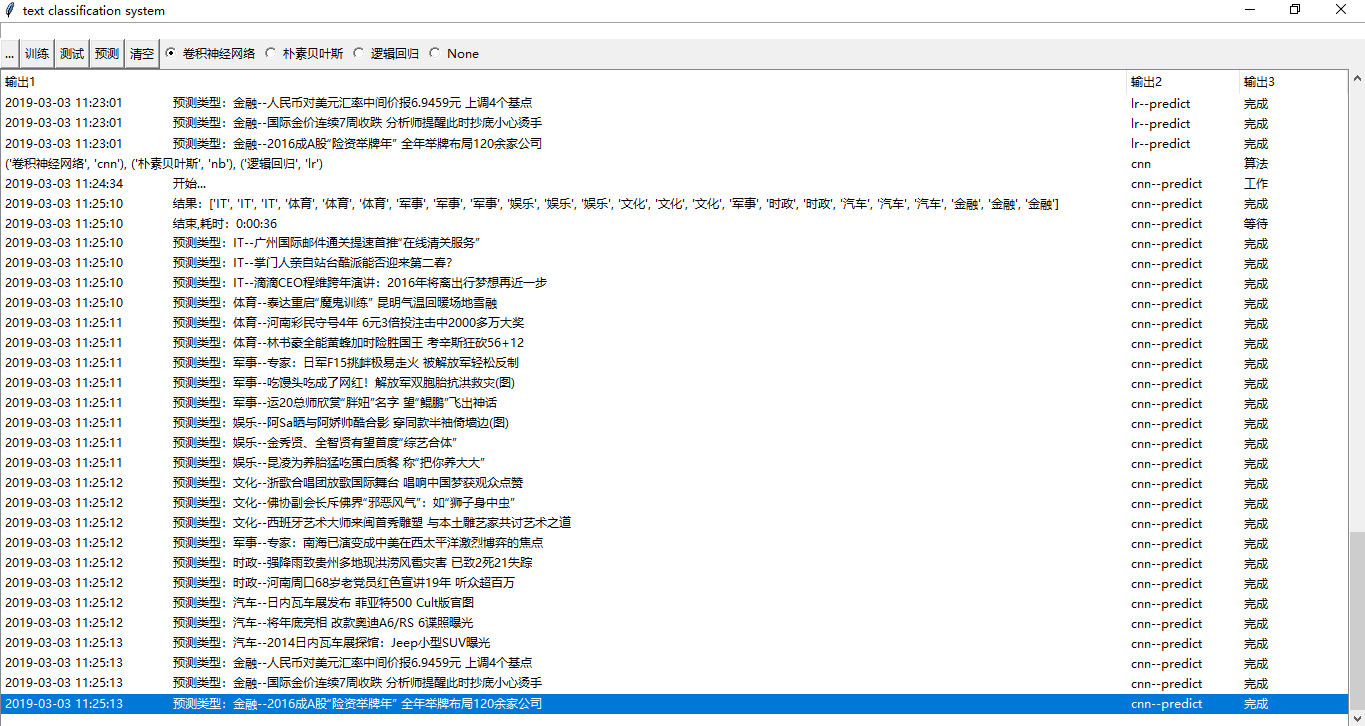
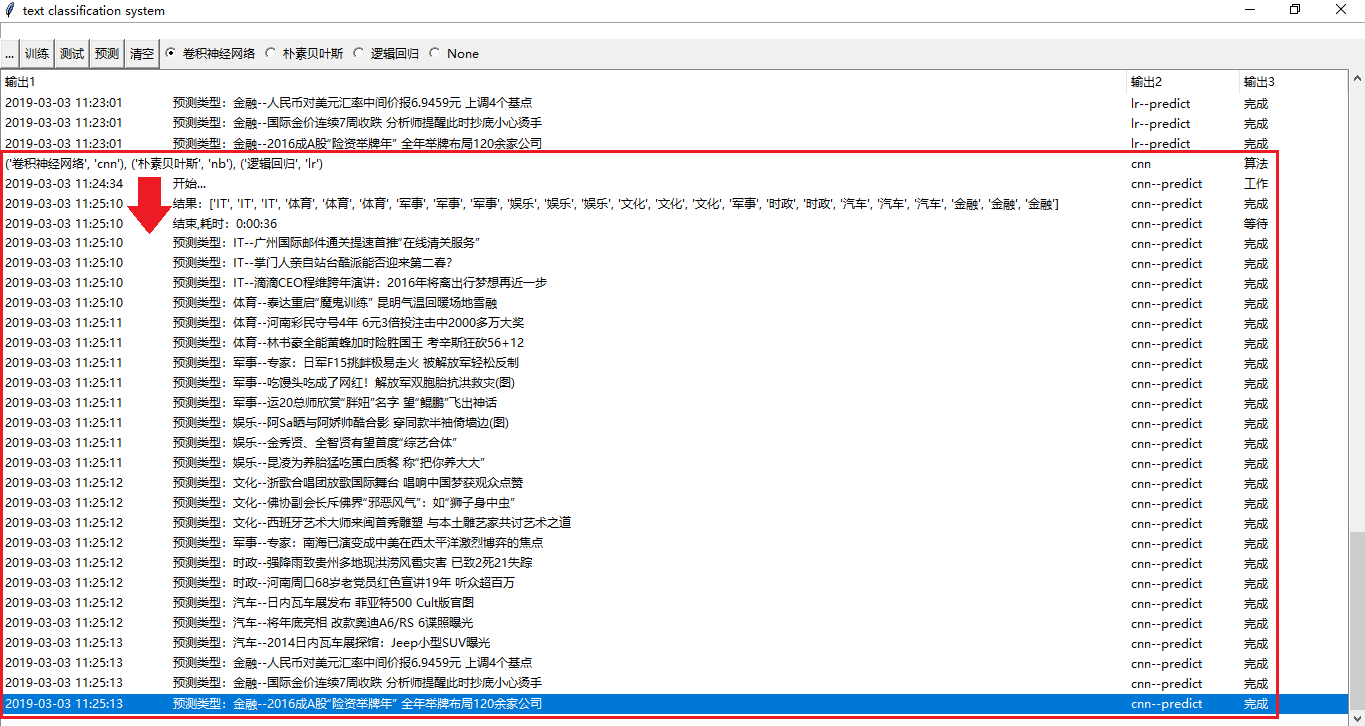
Squashed commit of the following:
commit a1d012fac4e99bb93b5b42148543780000f0fea9
Author: Zhangjiangfan <2423427511@qq.com>
Date:   Sun Mar 3 16:36:05 2019 +0800

    refactor：
    *picture marking
    *tc_tool foramt
    *md format

# Conflicts:
#	README.md

Changed region(s): [[0.0, 0.9697, 0.9538, 1.0], [0.0, 0.1818, 0.9231, 0.2121], [0.0923, 0.2424, 0.1231, 0.3333]]

diff --git a/tc_all/tc_tool.py b/tc_all/tc_tool.py
@@ -226,44 +226,3 @@ class tool(object):
             return None
         with open(configfile,"r",encoding='utf-8') as f:
              return json.load(f)
-            
-def test_json():
-    tool.save_config(dic = {
-        'debug':True,
-        'worktype':worktype.train,
-        'algorithmtype':algorithmtype,
-        'filenames':{
-                        'dir':'D:\\DocuemtManagement\\VSproject\\Python_Proj\\Py.Basic\\Text_Categorization_JF\\data_n\\6\\',
-                        'train':'train.txt',
-                        'trainmid':'trainmid.txt',
-                        'traindat':'train.dat',
-                        'traintf':'traintfidf.dat',
-                        'test':'test.txt',
-                        'testmid':'testmid.txt',
-                        'testdat':'test.dat',
-                        'testtf':'testtfidf.dat',
-                        'pred':'pred.txt',
-                        'predmid':'predmid.txt',
-                        'preddat':'pred.dat',
-                        'predtf':'predtfidf.dat',
-                        'val':'val.txt',
-                        'valmid':'valmid.txt',
-                        'wv':'wv.txt',
-                        'word':'wv_word.txt',
-                        'vector':'wv_vector.txt',
-                        'best':'best_validation',
-                        'board':'tensorboard',
-                        'stop':'stopword.txt'}
-                        })
-
-    '''config=tool.get_config()
-    for k in config:print(config)
-    for k,v in config['filenames'].items():
-        if k=='dir':
-            dir_=v
-        else:
-            config['filenames'][k]=dir_+v
-    for k in config:print(config)
-    tool.save_config(config)'''
-    
-#test_json()

diff --git a/tc_all/tc_main.py b/tc_all/tc_main.py
@@ -7,14 +7,20 @@
 '''
 import tkinter as tk
 from tc_ui import *
+from tc_tool import *
 '''
     program start entry
 '''
 if(__name__=='__main__'):
-    root = tk.Tk()
-    root.geometry('500x500')
-    root.title('text classification system')
-    root.minsize(500, 500)
-    root.update()
-    app = ui(root)
-    root.mainloop()
+    try:
+        root = tk.Tk()
+        root.geometry('500x500')
+        root.title('text classification system')
+        root.minsize(500, 500)
+        root.update()
+        app = ui(root)
+        root.mainloop()
+        a=1+'2'
+    except Exception as e:
+        pass
+        

diff --git a/tc_all/tc_lr.py b/tc_all/tc_lr.py
@@ -47,7 +47,7 @@ class lr(object):
         raises:
         '''
         traindata=data(None).load(param['data'])
-        return traindata
+        return ''
     
     def __do_test(self,param):
         '''

diff --git a/tc_all/tc_nb.py b/tc_all/tc_nb.py
@@ -47,7 +47,7 @@ class nb(object):
         raises:
         '''
         traindata=data(None).load(param['data'])
-        return traindata
+        return ''
     
     def __do_test(self,param):
         '''
